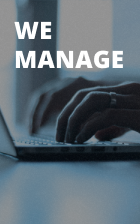
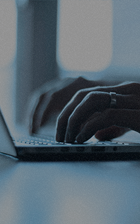
fix: change image in assets

Changed region(s): [[0.1143, 0.2188, 0.8857, 0.3125], [0.0857, 0.0938, 0.3714, 0.1875]]

diff --git a/index.html b/index.html
@@ -53,8 +53,8 @@
                 </div>
                 <div class="about__grid">
                     <div class="about__text">
-                        <h3 class="about__lead">Founded in 2011 by John Mathe Smith,
-                            <span class="lead-highlight">Konstruct</span> has become the number one construction management firm</h3>
+                        <p class="about__lead">Founded in 2011 by John Mathew Smith,
+                            <span class="lead-highlight">Konstruct</span> has become the number one construction management firm</p>
                         <p class="text-body about__description">Lorem ipsum dolor sit amet, consectetuer adipiscing elit, sed diam nonummy nibh euismod tincidunt ut laoreet dolore magna aliquam erat. Lorem ipsum dolor sit amet, consectetuer adipiscing elit, sed diam nonummy nibh euismod tincidunt ut laoreet dolore magna aliquam erat.</p>
                     </div>
                     <div class="about__cards">
@@ -68,10 +68,9 @@
                         </div>
                         <div class="about__cards-item">
                             <p class="item__title">WE BUILD</p>
-                            <img src="assets/deliver.png" alt="">
+                            <img src="assets/bild.png" alt="">
                         </div>
                     </div>
-                </div>
                 </div>
             </div>
         </section>

diff --git a/styles/main.css b/styles/main.css
@@ -140,6 +140,8 @@ a:hover {
 .about__grid {
     display: grid;
     grid-template-columns: repeat(2, 1fr);
+    gap: 80px;
+    margin-top: 55px;
 }
 .about__flex {
     display: flex;
@@ -147,32 +149,32 @@ a:hover {
     flex-direction: column;
     align-items: center;
 }
-.about__inner {
-}
 .about__title {
     padding-bottom: 13px;
 }
+.about__text {
+}
+
 .about__line {
     
 }
-.about__content {
-    display: flex;
-    justify-content: space-between;
-    flex-direction: column;
-    padding-top: 66px;
-}
 .about__text {
-    max-width: 253px;
 }
 .about__lead {
     color: var(--text-primary);
     font-size: 20px;
     font-weight: 700;
+    font-size: 20px;
+    letter-spacing: 0.188px;
+    margin-bottom: 30px;
+    padding-right: 45px;
 }
 .lead-highlight {
     color: var(--accent);
 }
 .about__description {
+    width: 405.076px;
+    padding-right: 25px;
 }
 .about__cards {
 }
